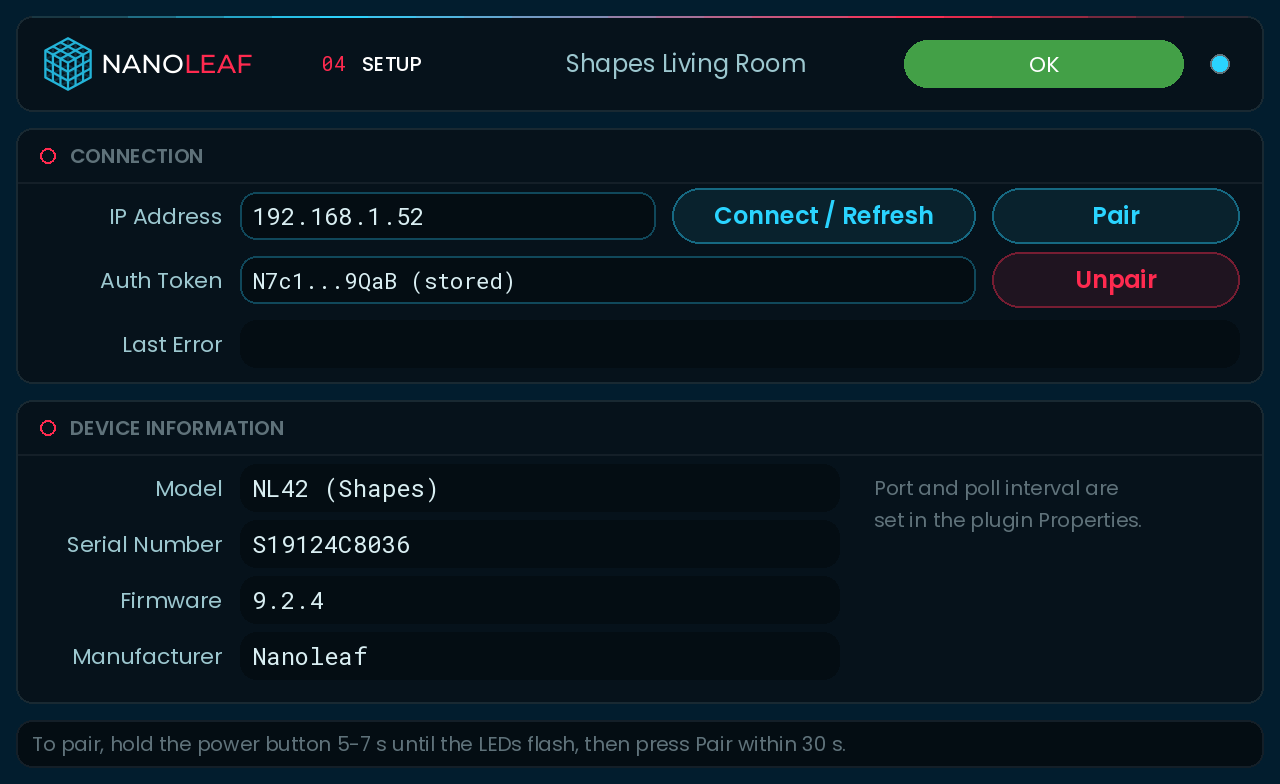
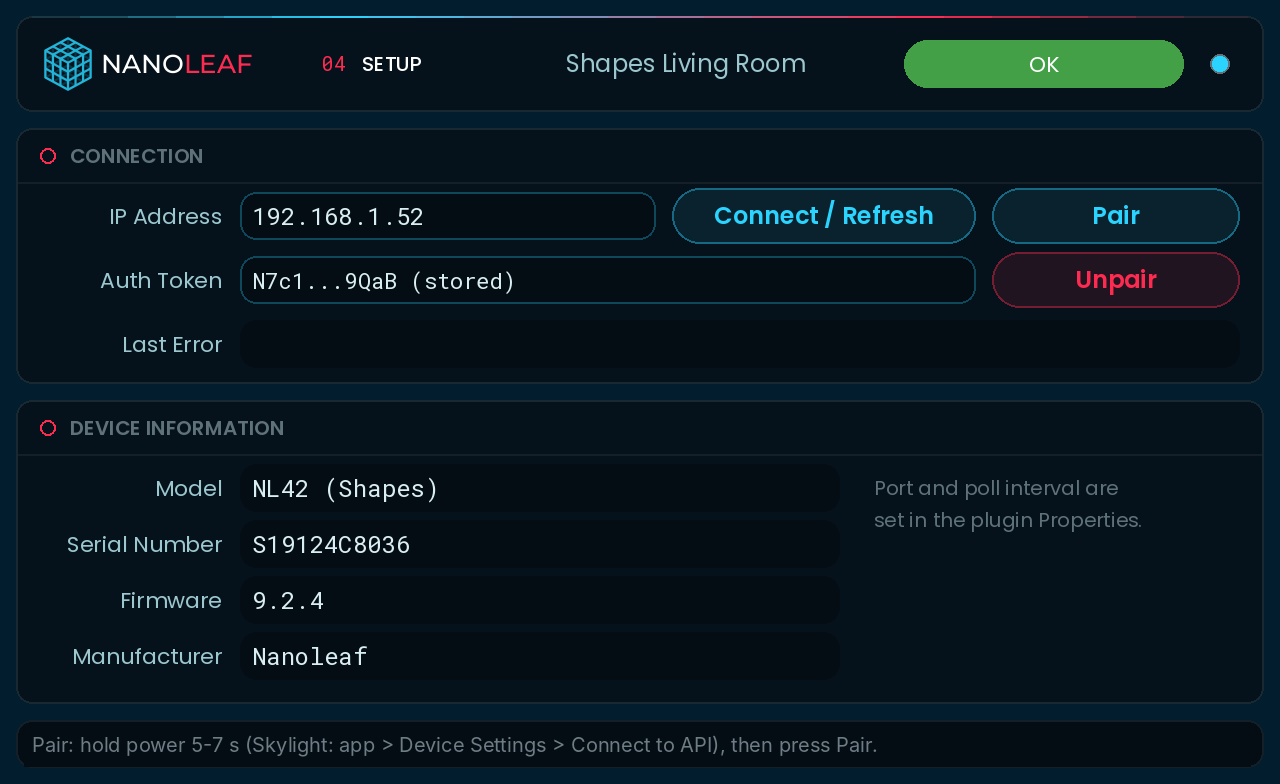
Nanoleaf: let Skylight and other buttonless devices pair
Pair now listens for 30 s and retries POST /api/v1/new every 2 s, so the
pairing window can be opened from the Nanoleaf app (Device Settings >
Connect to API) as well as the power button. Press Pair again to cancel.
README documents both pairing routes and manual token entry. v1.2.

Claude-Session: https://claude.ai/code/session_01JpJU1hFq5wSb64rubdjyso

Changed region(s): [[0.0312, 0.9184, 0.6875, 0.9796]]

diff --git a/nanoleaf/README.md b/nanoleaf/README.md
@@ -1,7 +1,7 @@
 # Nanoleaf Open API plugin for Q-SYS
 
 `Nanoleaf.qplug` controls one Nanoleaf controller per plugin instance over the local Nanoleaf Open API
-(HTTP, port 16021). It covers Light Panels (Aurora), Canvas, Shapes, Elements and Lines.
+(HTTP, port 16021). It covers Light Panels (Aurora), Canvas, Shapes, Elements, Lines and Skylight.
 
 ## Install
 1. Copy `Nanoleaf.qplug` to `Documents\QSC\Q-Sys Designer\Plugins`.
@@ -11,9 +11,16 @@
 ## Set up and pair
 1. Give the Nanoleaf controller a DHCP reservation so its IP never changes, and put it on a network the Core can reach.
 2. On the **Setup** page, enter the IP address.
-3. Hold the controller's power button for 5-7 seconds until the LEDs flash. Then press **Pair** within 30 seconds.
-4. The token appears in **Auth Token** and the status turns OK.
-5. **Save the token in the design.** Copy it into the Auth Token field in Designer (not while emulating or running) and save. Otherwise a re-deploy can wipe it.
+3. Press **Pair**. The plugin listens for 30 seconds (the status counts down and the button reads **Cancel**). It retries every 2 seconds until the Nanoleaf accepts.
+4. While it listens, open the Nanoleaf's pairing window:
+   - **Devices with a power button** (Light Panels, Canvas, Shapes, Elements, Lines): hold the controller's power button for 5-7 seconds until the LEDs flash.
+   - **Skylight and other devices with no power button:** in the Nanoleaf app, open the device's **Device Settings**, choose **Connect to API**, and tap **Enable**.
+
+   The window stays open for about 30 seconds, so it doesn't matter which you do first. If time runs out, press **Pair** again.
+5. The token appears in **Auth Token** and the status turns OK.
+6. **Save the token in the design.** Copy it into the Auth Token field in Designer (not while emulating or running) and save. Otherwise a re-deploy can wipe it.
+
+**Already have a token?** Paste it into **Auth Token** and the plugin connects with it straight away. Use this for a token from another integration or a previous install. It skips pairing entirely.
 
 **Unpair** deletes the token from the Nanoleaf. **Connect / Refresh** reconnects after you change the IP or token.
 
@@ -41,7 +48,7 @@ Every control has a pin, so UCI buttons, control scripts and snapshots can drive
 - **RGB:** the API has no RGB setter for the whole device, so R/G/B and hex are converted to hue/sat/brightness. That is the same method the open-source `nanoleafapi` library uses.
 
 ## Limitations / not tested on hardware
-**This plugin has not been run against a real Nanoleaf or a real Q-SYS Core.** The logic was tested in a Lua 5.3 harness with mocked Q-SYS controls, `HttpClient`, `Timer` and `rapidjson`, against a simulated Nanoleaf. That covered pairing (403 and 200), power, brightness, fade and step, RGB/hex/quick colors, white presets, effect select/next/prev/paging, per-panel static writes, identify, orientation, rhythm, write coalescing, going offline and coming back, and unpair. The layout previews (`preview_*.png`) are a close rendering, not a Designer screenshot.
+**This plugin has not been run against a real Nanoleaf or a real Q-SYS Core.** The logic was tested in a Lua 5.3 harness with mocked Q-SYS controls, `HttpClient`, `Timer` and `rapidjson`, against a simulated Nanoleaf. That covered pairing (waiting through 403s until the window opens, timeout, cancel, manual token entry), power, brightness, fade and step, RGB/hex/quick colors, white presets, effect select/next/prev/paging, per-panel static writes, identify, orientation, rhythm, write coalescing, going offline and coming back, and unpair. The layout previews (`preview_*.png`) are a close rendering, not a Designer screenshot.
 
 Check these on site:
 - **Layout styling:** that Designer renders the layout the same way. The plugin uses flat buttons, rounded corners, `TextColor` for button and text colors (per the Q-SYS layout reference), and runtime `.Color` on the swatch LEDs.
@@ -59,6 +66,7 @@ Not included:
 - Nanoleaf Open API documentation (official, requires a free developer account): https://forum.nanoleaf.me/docs/openapi
 - Q-SYS HttpClient reference (Download/Upload/Delete, EventHandler signature): https://help.qsys.com/Content/Control_Scripting/Using_Lua_in_Q-Sys/HttpClient.htm
 - Q-SYS Lua extensions reference: https://help.qsys.com/Content/Control_Scripting/Using_Lua_in_Q-Sys/Q-SYS_Extensions_to_Lua.htm
+- Pairing devices with no power button (Nanoleaf app > Device Settings > Connect to API): Portal's Skylight setup guide, https://portal.app/faq/how-do-i-connect-my-nanoleaf-skylights, and Homey community reports, https://community.homey.app/t/has-anyone-successfully-paired-nanoleaf-skylight/106847
 - Cross-check of endpoints and JSON bodies: `nanoleafapi` Python library source, https://github.com/MylesMor/nanoleafapi
 
 The official Nanoleaf and Q-SYS developer pages could not be fully loaded from the build environment. Endpoint bodies were confirmed against the `nanoleafapi` source. The Q-SYS plugin layout properties (`GroupBox`/`Label` graphics, `Style`, `OffColor`, `CornerRadius`) follow the Q-SYS plugin conventions, so check them in Designer.
@@ -66,3 +74,4 @@ The official Nanoleaf and Q-SYS developer pages could not be fully loaded from t
 ## Changelog
 - 1.0: first release.
 - 1.1: restyled to the home-dash Deep Ocean design ([design/README.md](../design/README.md)); no control or pin changes.
+- 1.2: Skylight and other devices with no power button can pair. Pair now listens for 30 s and retries, so the pairing window can be opened from the Nanoleaf app (Connect to API) or the power button. Press Pair again to cancel.

diff --git a/README.md b/README.md
@@ -7,7 +7,7 @@ Each plugin lives in its own folder with the `.qplug` file, a README covering se
 
 | Plugin | Version | Controls | Protocol | Download |
 |---|---|---|---|---|
-| [Nanoleaf Open API](nanoleaf/) | 1.1 | Nanoleaf Light Panels, Canvas, Shapes, Elements and Lines: power, brightness, color, white, effects, per-panel color | Local Nanoleaf Open API, HTTP port 16021 | [Nanoleaf.qplug](nanoleaf/Nanoleaf.qplug?raw=1) |
+| [Nanoleaf Open API](nanoleaf/) | 1.2 | Nanoleaf Light Panels, Canvas, Shapes, Elements, Lines and Skylight: power, brightness, color, white, effects, per-panel color | Local Nanoleaf Open API, HTTP port 16021 | [Nanoleaf.qplug](nanoleaf/Nanoleaf.qplug?raw=1) |
 | [Philips Hue Bridge](philips-hue/) | 1.1 | Hue lights, rooms, zones and scenes: power, brightness, color, color temperature, scenes, effects | Local Hue API v2 (CLIP), HTTPS port 443 | [Hue.qplug](philips-hue/Hue.qplug?raw=1) |
 | [FlexRadio FLEX-6600](flexradio/) | 1.1 | FLEX-6600 / FLEX-6000 transceivers: slices, frequency, band, mode, filter, AF gain, AGC, noise reduction, squelch, RIT, line out, guarded transmit (MOX, tune, ATU, power, TX audio source), meters | SmartSDR TCP/IP API, TCP port 4992, VITA-49 meters over UDP | [FlexRadio.qplug](flexradio/FlexRadio.qplug?raw=1) |
 | [UniFi Network Monitor](unifi/) | 1.1 | UniFi consoles (UDM Pro and others): scrollable client list with IP, MAC and live bandwidth, internet and network health, WAN throughput, speed test, devices, firmware, ports and PoE, device restart, PoE power cycle, guest authorization | Local UniFi Network API (official Integration v1 plus legacy stats), HTTPS port 443, API key | [Unifi.qplug](unifi/Unifi.qplug?raw=1) |
